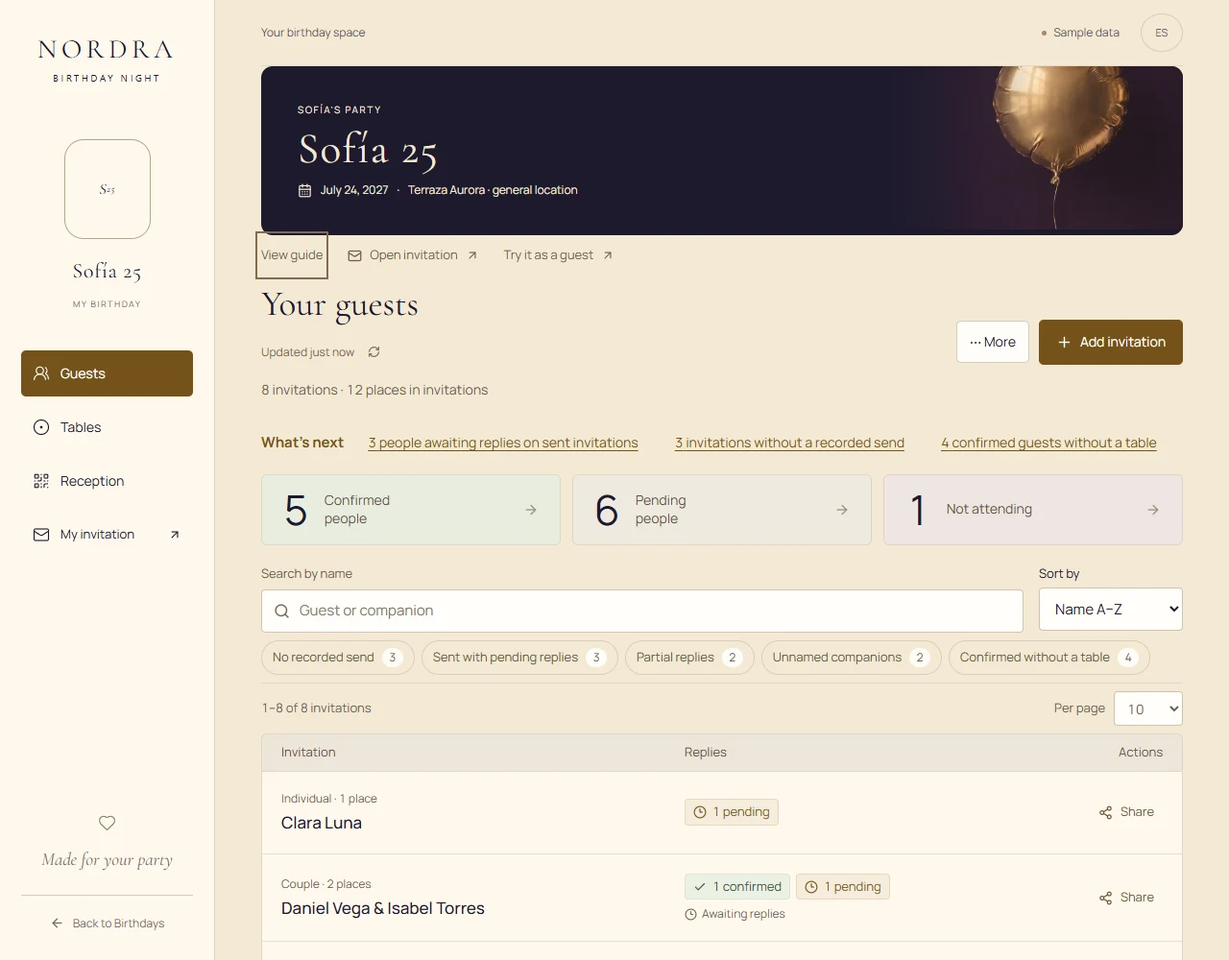
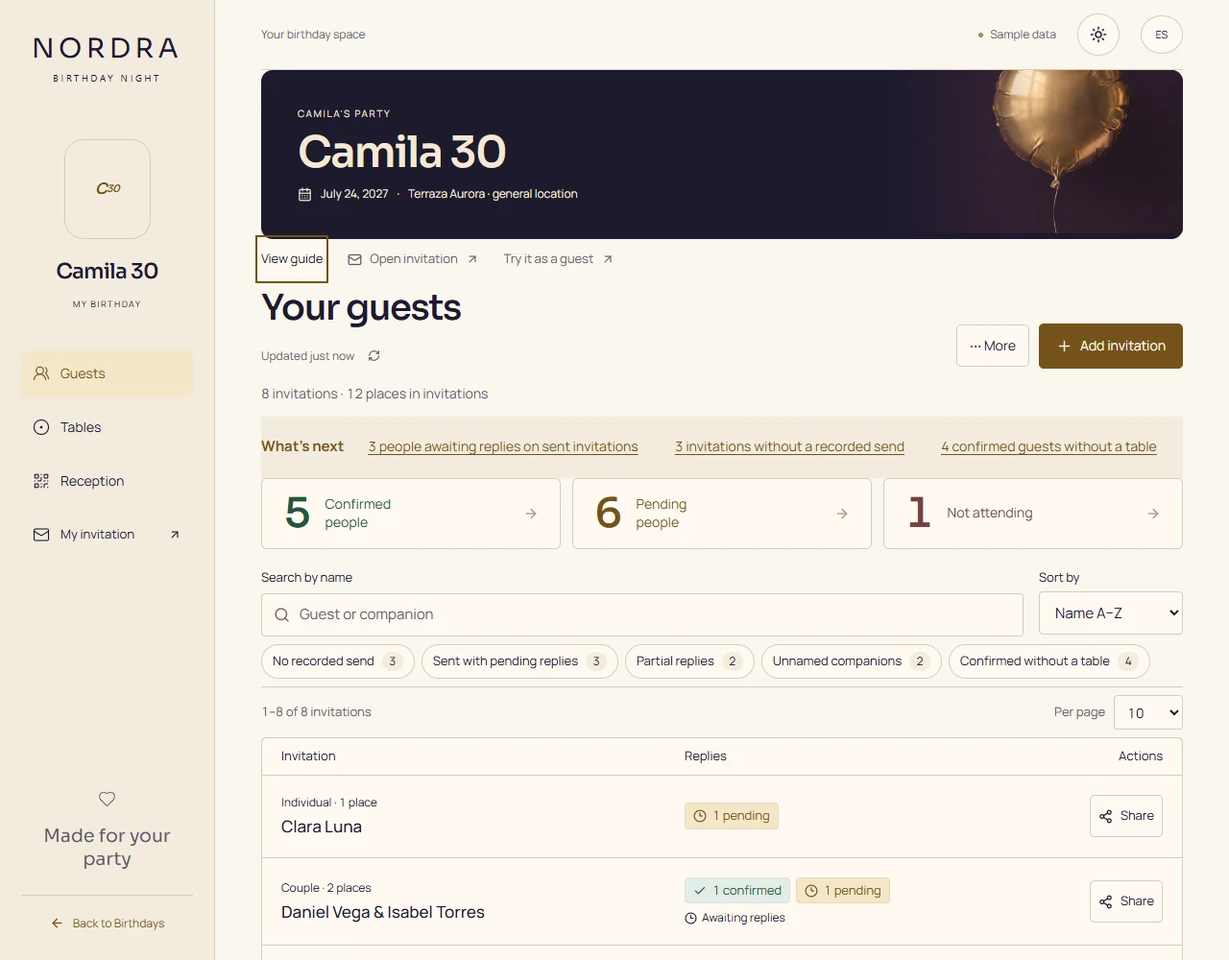
Estrena Camila 30 y conserva los enlaces personales de la muestra anterior

diff --git a/cumpleanos.html b/cumpleanos.html
@@ -20,17 +20,17 @@
 
 
 
-<section class="scene entry business invitations occasion-page theme-birthday" data-view="cumpleanos" aria-labelledby="cumpleanos-occasion-title"><nav class="mobile-route" aria-label="Accesos rápidos de esta página"><a href="#cumpleanos-event-experience">Muestra</a><a href="#cumpleanos-planes-eventos">Planes</a>{{mobile:whatsapp}}</nav><nav class="occasion-path" aria-label="Tipo de invitación"><a href="/invitaciones" data-go="invitaciones">Invitaciones</a><a href="/bodas" data-go="bodas">Bodas</a><a href="/cumpleanos" data-go="cumpleanos" aria-current="page">Cumpleaños</a><a href="/eventos" data-go="eventos">Eventos</a><a href="/temporada" data-go="temporada">Temporada</a></nav><div class="occasion-hero birthday-hero"><div class="occasion-kicker"><p class="eyebrow">CUMPLEAÑOS, POR NORDRA</p><button class="business-motion-control" type="button" data-business-toggle aria-pressed="false">Pausar movimiento</button></div><h1 id="cumpleanos-occasion-title"><span class="business-title-line">Hay mucho</span> <span class="business-title-line">que celebrar</span></h1><div class="occasion-hero-live showcase-live"><div class="live-phone nordra-phone"><div class="live-screen"><img src="/artwork/birthday-noche/sofia-portada-780.webp" srcset="/artwork/birthday-noche/sofia-portada-390.webp 390w, /artwork/birthday-noche/sofia-portada-780.webp 780w" sizes="(max-width:700px) 180px, 265px" width="780" height="1688" alt="Portada de Sofía 25 con un globo de foil dorado" loading="eager" fetchpriority="high" decoding="async"></div></div><p class="live-actions"><a class="live-try" href="/invitaciones/sofia-25/" data-live-try="Invitación de Sofía 25">Pruébala aquí <span aria-hidden="true">↗</span></a><span class="live-note">Un diseño de Nordra</span></p></div><div class="occasion-lead"><p>De los cinco a los cincuenta, tus XV o tu aniversario: la invitación lleva tu estilo.</p><a class="horizon-button" href="#cumpleanos-event-experience">Encuentra tu estilo <span aria-hidden="true">↓</span></a><a class="options-compare" href="#cumpleanos-planes-eventos">Ver paquetes <span aria-hidden="true">↗</span></a></div></div><section class="home-continuation wedding-sample occasion-stage" id="cumpleanos-respuesta" aria-labelledby="cumpleanos-response-title">
+<section class="scene entry business invitations occasion-page theme-birthday" data-view="cumpleanos" aria-labelledby="cumpleanos-occasion-title"><nav class="mobile-route" aria-label="Accesos rápidos de esta página"><a href="#cumpleanos-event-experience">Muestra</a><a href="#cumpleanos-planes-eventos">Planes</a>{{mobile:whatsapp}}</nav><nav class="occasion-path" aria-label="Tipo de invitación"><a href="/invitaciones" data-go="invitaciones">Invitaciones</a><a href="/bodas" data-go="bodas">Bodas</a><a href="/cumpleanos" data-go="cumpleanos" aria-current="page">Cumpleaños</a><a href="/eventos" data-go="eventos">Eventos</a><a href="/temporada" data-go="temporada">Temporada</a></nav><div class="occasion-hero birthday-hero"><div class="occasion-kicker"><p class="eyebrow">CUMPLEAÑOS, POR NORDRA</p><button class="business-motion-control" type="button" data-business-toggle aria-pressed="false">Pausar movimiento</button></div><h1 id="cumpleanos-occasion-title"><span class="business-title-line">Hay mucho</span> <span class="business-title-line">que celebrar</span></h1><div class="occasion-hero-live showcase-live"><div class="live-phone nordra-phone"><div class="live-screen"><img src="/artwork/birthday-noche/camila-portada-780.webp" srcset="/artwork/birthday-noche/camila-portada-390.webp 390w, /artwork/birthday-noche/camila-portada-780.webp 780w" sizes="(max-width:700px) 180px, 265px" width="780" height="1688" alt="Portada de Camila 30 con un globo de foil dorado" loading="eager" fetchpriority="high" decoding="async"></div></div><p class="live-actions"><a class="live-try" href="/invitaciones/camila-30/" data-live-try="Invitación de Camila 30">Pruébala aquí <span aria-hidden="true">↗</span></a><span class="live-note">Un diseño de Nordra</span></p></div><div class="occasion-lead"><p>De los cinco a los cincuenta, tus XV o tu aniversario: la invitación lleva tu estilo.</p><a class="horizon-button" href="#cumpleanos-event-experience">Encuentra tu estilo <span aria-hidden="true">↓</span></a><a class="options-compare" href="#cumpleanos-planes-eventos">Ver paquetes <span aria-hidden="true">↗</span></a></div></div><section class="home-continuation wedding-sample occasion-stage" id="cumpleanos-respuesta" aria-labelledby="cumpleanos-response-title">
  <span class="occasion-anchor" id="cumpleanos-event-experience"></span><span class="occasion-anchor" id="event-experience"></span>
  <div class="wedding-direction"><h2 id="cumpleanos-response-title">Así llega cada respuesta</h2><p>Muestra interactiva · datos ficticios</p>
  <div class="wedding-switch" role="tablist" aria-label="Recorrido de la muestra" aria-orientation="vertical">
  <button type="button" role="tab" id="cumpleanos-tab-invitacion" aria-controls="cumpleanos-panel-muestra" aria-selected="true"><strong>Abre la invitación</strong><span>Consulta la fecha, el lugar y la agenda</span></button>
  <button type="button" role="tab" id="cumpleanos-tab-panel" aria-controls="cumpleanos-panel-muestra" aria-selected="false" tabindex="-1"><strong>Mira el panel</strong><span>Cada respuesta aparece en tu panel</span></button></div>
- <div class="wedding-links"><a href="/invitaciones/sofia-25/">Abrir la invitación completa ↗</a><a href="/panel-cumple.html">Probar el panel de muestra ↗</a></div></div>
+ <div class="wedding-links"><a href="/invitaciones/camila-30/">Abrir la invitación completa ↗</a><a href="/panel-cumple.html">Probar el panel de muestra ↗</a></div></div>
  <div class="wedding-stage" id="cumpleanos-panel-muestra" role="tabpanel" aria-labelledby="cumpleanos-tab-invitacion" data-step="cover">
- <div class="wedding-devices"><a class="wedding-dashboard" href="/panel-cumple.html" aria-label="Probar el panel de muestra"><img src="/artwork/birthday-dashboard-preview/dashboard-es-760.webp" srcset="/artwork/birthday-dashboard-preview/dashboard-es-760.webp 760w, /artwork/birthday-dashboard-preview/dashboard-es-1280.webp 1280w" sizes="(max-width:700px) 86vw, 55vw" alt="Panel de Sofía 25" loading="lazy"></a>
- <div class="wedding-phone"><img src="/artwork/birthday-noche/sofia-detalles-390.webp" srcset="/artwork/birthday-noche/sofia-detalles-390.webp 390w, /artwork/birthday-noche/sofia-detalles-780.webp 780w" sizes="(max-width:700px) 43vw, 318px" width="390" height="844" loading="lazy" alt="Fecha y agenda de Sofía 25"></div></div>
- <p class="wedding-credit">Sofía 25 · Un diseño de Nordra</p></div></section><section class="home-continuation occasion-plans" id="cumpleanos-planes-eventos"><span class="occasion-anchor" id="planes-eventos"></span>
+ <div class="wedding-devices"><a class="wedding-dashboard" href="/panel-cumple.html" aria-label="Probar el panel de muestra"><img src="/artwork/birthday-dashboard-preview/dashboard-es-760.webp" srcset="/artwork/birthday-dashboard-preview/dashboard-es-760.webp 760w, /artwork/birthday-dashboard-preview/dashboard-es-1280.webp 1280w" sizes="(max-width:700px) 86vw, 55vw" alt="Panel de Camila 30" loading="lazy"></a>
+ <div class="wedding-phone"><img src="/artwork/birthday-noche/camila-detalles-390.webp" srcset="/artwork/birthday-noche/camila-detalles-390.webp 390w, /artwork/birthday-noche/camila-detalles-780.webp 780w" sizes="(max-width:700px) 43vw, 318px" width="390" height="844" loading="lazy" alt="Fecha y agenda de Camila 30"></div></div>
+ <p class="wedding-credit">Camila 30 · Un diseño de Nordra</p></div></section><section class="home-continuation occasion-plans" id="cumpleanos-planes-eventos"><span class="occasion-anchor" id="planes-eventos"></span>
  <h2 id="cumpleanos-decision-title">Aurora y Boreal</h2><p>Precios de apertura y regulares en MXN, con IVA incluido. Pago único.</p>
  <div class="occasion-plan-grid">{{occasion:cumpleanos:plans}}</div><div class="occasion-extra"><details><summary>Servicios adicionales<span aria-hidden="true">+</span></summary><p>Lo que acordamos en tu paquete está incluido: tus fotos, enlaces a mapas, el formulario y el panel de invitados. Puedes compartir tu enlace manualmente por WhatsApp sin un cargo adicional de Nordra. Si quieres sumar mensajes automáticos, venta de entradas o alguna integración de pago, primero te explicamos los costos de configuración y las comisiones del proveedor. Tú decides si seguimos adelante antes de contratar o activar algo.</p></details></div></section><section class="home-continuation audience-faq" id="cumpleanos-preguntas" aria-labelledby="cumpleanos-faq-title"><div><h2 id="cumpleanos-faq-title">Preguntas frecuentes</h2></div><div class="faq-list">{{occasion:cumpleanos:faq}}</div></section><section class="home-continuation studio-process process-roadmap" id="cumpleanos-proceso-invitaciones" aria-labelledby="cumpleanos-invitation-process-title">
 

diff --git a/invitaciones/camila-30/index.html b/invitaciones/camila-30/index.html
@@ -1,16 +1,16 @@
 <!doctype html>
-<html lang="es" data-invitation="sofia" data-theme="light">
-<head><meta charset="utf-8"><meta name="viewport" content="width=device-width,initial-scale=1"><meta name="description" content="Sofía 25 · Un diseño de Nordra. Invitación de muestra"><title>Sofía 25 · Un diseño de Nordra</title><meta name="robots" content="noindex,follow"><script>try{document.documentElement.dataset.theme=localStorage.getItem('nordra-theme')==='dark'?'dark':'light'}catch{}</script><link rel="stylesheet" href="/src/celebrations/invitation.css"><link rel="stylesheet" href="/src/celebrations/sofia.css"><script type="module" src="/src/celebrations/invitation.js"></script></head>
+<html lang="es" data-invitation="camila" data-theme="light">
+<head><meta charset="utf-8"><meta name="viewport" content="width=device-width,initial-scale=1"><meta name="description" content="Camila 30 · Un diseño de Nordra. Invitación de muestra"><title>Camila 30 · Un diseño de Nordra</title><meta name="robots" content="noindex,follow"><script>try{document.documentElement.dataset.theme=localStorage.getItem('nordra-theme')==='dark'?'dark':'light'}catch{}</script><link rel="stylesheet" href="/src/celebrations/invitation.css"><link rel="stylesheet" href="/src/celebrations/camila.css"><script type="module" src="/src/celebrations/invitation.js"></script></head>
 <body class="birthday-invitation" data-phase="closed">
 <div class="celebration-entrance" role="dialog" aria-modal="true" aria-labelledby="cover-title" tabindex="-1"><div class="cover">
-<div class="cover-head"><p class="eyebrow">UNA NOCHE PARA CELEBRAR</p><span class="cover-monogram">S / 25</span></div>
-<div class="cover-copy"><h1 id="cover-title">Sofía<span class="age">25</span></h1><p class="cover-subtitle">Veinticinco vueltas al sol</p><p class="cover-message">Mi noche favorita empieza contigo</p></div>
+<div class="cover-head"><p class="eyebrow">UNA NOCHE PARA CELEBRAR</p><span class="cover-monogram">C / 30</span></div>
+<div class="cover-copy"><h1 id="cover-title">Camila<span class="age">30</span></h1><p class="cover-subtitle">Treinta vueltas al sol</p><p class="cover-message">Mi noche favorita empieza contigo</p></div>
 <div class="cover-art"><img src="/artwork/birthday-noche/solo-640.webp" srcset="/artwork/birthday-noche/solo-640.webp 640w, /artwork/birthday-noche/solo-1024.webp 1024w" sizes="(min-width:900px) 470px, 300px" width="1024" height="1024" alt="Globo de foil dorado sobre un fondo de medianoche"></div>
 <div class="cover-bottom"><div class="cover-date"><p>24 · 07 · 2027 · 19:00</p><p>Terraza Aurora</p></div><button class="primary" data-open type="button">Abrir invitación <span aria-hidden="true">↗</span></button><button class="text-button" data-skip type="button">Entrar sin animación</button><p class="signature">UN DISEÑO DE NORDRA</p></div></div></div>
-<header class="celebration-header" hidden inert><button data-cover type="button" aria-label="Volver a la portada">Sofía 25</button><nav aria-label="Invitación"><a href="#detalles">El día</a><a href="#agenda">Agenda</a><a href="#confirmacion">Confirmar ↗</a></nav></header>
+<header class="celebration-header" hidden inert><button data-cover type="button" aria-label="Volver a la portada">Camila 30</button><nav aria-label="Invitación"><a href="#detalles">El día</a><a href="#agenda">Agenda</a><a href="#confirmacion">Confirmar ↗</a></nav></header>
 <main class="celebration-content" hidden inert>
 <section id="bienvenida" class="welcome" tabindex="-1"><div><p class="eyebrow">CON MIS PERSONAS FAVORITAS</p><h2>Lo mejor es celebrarlo contigo</h2></div><img src="/artwork/birthday-noche/solo-640.webp" srcset="/artwork/birthday-noche/solo-640.webp 640w, /artwork/birthday-noche/solo-1024.webp 1024w" sizes="(min-width:900px) 470px, 300px" width="1024" height="1024" alt="Globo de foil dorado sobre un fondo de medianoche"></section>
-<div class="content-grid"><div><section class="details" id="detalles" tabindex="-1"><p class="eyebrow">GUARDA ESTE DÍA</p><div class="date-display"><strong>24 JUL</strong><time datetime="2027-07-24T19:00:00-06:00">2027<br>19:00 h</time></div><h3>Terraza Aurora</h3><p>Ubicación general · sin dirección publicada</p><a class="calendar" href="/invitaciones/sofia-25/fecha.ics" download>Agregar al calendario <span aria-hidden="true">↗</span></a></section>
+<div class="content-grid"><div><section class="details" id="detalles" tabindex="-1"><p class="eyebrow">GUARDA ESTE DÍA</p><div class="date-display"><strong>24 JUL</strong><time datetime="2027-07-24T19:00:00-06:00">2027<br>19:00 h</time></div><h3>Terraza Aurora</h3><p>Ubicación general · sin dirección publicada</p><a class="calendar" href="/invitaciones/camila-30/fecha.ics" download>Agregar al calendario <span aria-hidden="true">↗</span></a></section>
 <section class="agenda" id="agenda" tabindex="-1"><p class="eyebrow">ASÍ LO CELEBRAMOS</p><h2>Nuestra noche</h2><ul><li>Bienvenida</li><li>Brindis</li><li>A celebrar</li></ul></section>
 <section class="dress" id="vestimenta" tabindex="-1"><p class="eyebrow">VESTIMENTA</p><h2>Un toque de brillo</h2></section></div>
 <section class="confirmation" id="confirmacion" tabindex="-1"><p class="eyebrow">UN LUGAR PARA TI</p><h2>¿Me acompañas?</h2><p class="sample-notice">Las respuestas de esta vista no se envían</p><form class="celebration-rsvp"><label for="guest">Tu nombre</label><input id="guest" name="guest" type="text" placeholder="Escribe tu nombre" required maxlength="80" autocomplete="off"><fieldset><legend>Tu respuesta</legend><div class="attendance-options"><label><input type="radio" name="attendance" value="yes" required>Sí, ahí estaré</label><label><input type="radio" name="attendance" value="no" required>Esta vez no</label></div></fieldset><button class="primary" type="submit">Probar confirmación <span aria-hidden="true">↗</span></button><p class="local-note">Datos ficticios · Esta prueba no envía ni guarda tus datos</p><p data-rsvp-status role="status" tabindex="-1"></p></form></section></div>

diff --git a/src/lib/occasionPanels.ts b/src/lib/occasionPanels.ts
@@ -6,21 +6,21 @@ function greeting(invitation:WeddingInvitation, en:boolean) {
   return (en?'Hi':'Hola')+(names.length?', '+new Intl.ListFormat(en?'en':'es-MX').format(names):'')+'. ';
 }
 export const birthdayPanel:typeof base = {
-  ...base,key:'birthday',accent:'#74531b',ink:'#1d1a2e',paper:'#fff9ed',
+  ...base,key:'birthday',accent:'var(--gold)',ink:'var(--text)',paper:'var(--surface)',
   sample:{path:'/panel-cumple.html',date:['24 de julio de 2027','July 24, 2027']},
   identity:{
-    name:'Sofía 25',title:['Sofía 25'],mark:['S','25'],back:'/cumpleanos',anchor:'cumpleanos-panel-muestra',
-    invitation:'/invitaciones/sofia-25/',download:'cumpleanos',photo:'/artwork/birthday-noche/solo-640.webp',srcSet:'/artwork/birthday-noche/solo-640.webp 640w, /artwork/birthday-noche/solo-1024.webp 1024w',
+    name:'Camila 30',title:['Camila 30'],mark:['C','30'],back:'/cumpleanos',anchor:'cumpleanos-panel-muestra',
+    invitation:'/invitaciones/camila-30/',download:'cumpleanos',photo:'/artwork/birthday-noche/solo-640.webp',srcSet:'/artwork/birthday-noche/solo-640.webp 640w, /artwork/birthday-noche/solo-1024.webp 1024w',
     place:['Terraza Aurora · ubicación general','Terraza Aurora · general location'],brand:['NOCHE DE CUMPLE','BIRTHDAY NIGHT'],brandLabel:['Cumpleaños','Birthdays'],
     badge:['MI CUMPLEAÑOS','MY BIRTHDAY'],panel:['Panel de cumpleaños','Birthday dashboard'],space:['Tu espacio de cumpleaños','Your birthday space'],
-    backLabel:['Volver a Cumpleaños','Back to Birthdays'],kicker:['LA FIESTA DE SOFÍA','SOFÍA’S PARTY'],note:['Reúne a tus personas favoritas.','Bring your favorite people together.'],
+    backLabel:['Volver a Cumpleaños','Back to Birthdays'],kicker:['LA FIESTA DE CAMILA','CAMILA’S PARTY'],note:['Reúne a tus personas favoritas.','Bring your favorite people together.'],
     motto:['Hecho para tu fiesta','Made for your party'],guests:['Tus invitados','Your guests'],nav:['Invitados','Guests'],ours:['Mi invitación','My invitation'],
     footer:['Muestra Boreal · Mesas y entradas a tu fiesta','Boreal sample · Seating and party check-in'],
     history:'Recupera invitaciones durante la vigencia de esta muestra. Después, vuelve a asignar sus mesas.',
     remove:'Su enlace quedará inactivo. Puedes recuperar la invitación desde Historial durante la vigencia del cumpleaños.',
   },
   guide:{...base.guide,steps:[
-    {...base.guide.steps[0],detail:['Abre la invitación personal de Sofía 25 en otra pestaña.','Open a personal Sofía 25 invitation in another tab.']},
+    {...base.guide.steps[0],detail:['Abre la invitación personal de Camila 30 en otra pestaña.','Open a personal Camila 30 invitation in another tab.']},
     base.guide.steps[1],{...base.guide.steps[2],detail:['Vuelve a Tus invitados para ver quién viene a la fiesta.','Return to Your guests to see who is coming to the party.']},
   ]},
   reminder(inv,en){return greeting(inv,en)+(en?"I’d love to know if you can come to my birthday party. Here’s your invitation:":inv.kind==='individual'?'Me encantaría saber si podrás venir a mi cumple. Aquí está tu invitación:':'Me encantaría saber si podrán venir a mi cumple. Aquí está su invitación:')},

diff --git a/src/styles/birthday-panel.css b/src/styles/birthday-panel.css
@@ -23,6 +23,7 @@ html .wedding-workspace[data-occasion=birthday] {
   & :is(.workspace-topbar,.workspace-footer,.workspace-sidebar,.workspace-navigation,.ledger-row,.boreal-table-card,.ledger-stat,.ledger-list,.workspace-monogram,.workspace-language) {border-color:var(--line)}
   & :is(p,small,label,legend,summary,strong,span,h1,h2,h3,h4,button,a,select,input) {color:inherit}
   & :is(h1,h2,h3,h4,.workspace-monogram,.workspace-couple p,.boreal-summary strong,.boreal-table-center>span,.ledger-stat-value,.record-detail-name) {font-family:var(--occasion-title);font-weight:550;letter-spacing:-.035em}
+  & :is(.workspace-brand,.workspace-sidebar-bottom p,.wedding-paper-monogram,.wedding-reply-context,.seating-plan-grid>strong,.seating-plan-table>strong) {font-family:var(--occasion-title);font-style:normal}
   & :is(.ledger-stat-value,.boreal-summary strong,.boreal-table-center>span) {font-variant-numeric:lining-nums tabular-nums}
   & :is(.workspace-list-footer,.workspace-footer,.workspace-date,.workspace-topbar,.workspace-sync,.ledger-results,.ledger-columns,.boreal-summary span,.workspace-sidebar-bottom,.ledger-heading p,.ledger-list small) {color:var(--muted)}
   & :is(.workspace-sidebar nav a,.workspace-sidebar nav button,.workspace-brand,.workspace-couple p) {color:var(--text)}
@@ -50,6 +51,11 @@ html .wedding-workspace[data-occasion=birthday] {
   & .ledger-stat:not(.is-yes,.is-no) {color:var(--gold)}
   & .ledger-stat>span {color:inherit}
   & :is(.ledger-search,.boreal-filters) input::placeholder {color:var(--muted);opacity:1}
+  & :is(.wedding-sync-status,.boreal-filters label>span:first-child,.boreal-list-meta,.boreal-list-meta>label) {color:var(--muted)}
+  & :is(.panel-more>button,.panel-more>div:not([hidden]),.boreal-plan-entry>button,.seat-move>button) {background:var(--surface);color:var(--text);border-color:var(--line)}
+  & :is(.seating-plan-grid article,.seating-plan-table,.wedding-kind-picker label,.workspace-editor-cancel,.workspace-dialog-close,.seat-picker .seat-bulk button,.seating-plan-assign button) {background:var(--surface);border-color:var(--line);color:var(--text)}
+  & :is(.seating-plan-footnote,.seating-plan-unassigned p,.seating-plan-grid header p,.wedding-editor-person legend,.wedding-preview-note) {color:var(--muted)}
+  & .workspace-dialog .wedding-kind-picker label:has(input:checked) {color:var(--gold);background:var(--pending-bg);border-color:var(--gold)}
   & :focus-visible {outline-color:var(--gold)}
   & .birthday-theme-button {display:inline-grid;place-items:center;width:44px;height:44px;border:1px solid var(--line);border-radius:50%;padding:0}
 }

diff --git a/vite.config.ts b/vite.config.ts
@@ -17,7 +17,7 @@ import { siteStyles } from "./build/site-styles.mjs";
 
 export default defineConfig({
   css: { postcss: { plugins: [commercialTypeFloor()] } },
-  build: { rollupOptions: { output: { manualChunks: id => id.includes("/node_modules/three/") ? "three" : undefined }, input: { home: "index.html", englishHome: "en/index.html", privacy: "aviso-de-privacidad/index.html", ...Object.fromEntries(translatedPages.map(page=>['en-'+page,'en/'+page+'.html'])), management: "gestion.html", studio: "estudio.html", business: "negocios.html", invitations: "invitaciones.html", weddings: "bodas.html", weddingPanel: "panel-boda.html", birthdayPanel: "panel-cumple.html", eventPanel: "panel-evento.html", weddingClient: "mi-boda.html", weddingInvitation: "invitacion-boda.html", birthdayInvitation: "invitaciones/sofia-25/index.html", eventInvitation: "invitaciones/conexion-27/index.html", weddingIvory: "invitaciones/valentina-y-sebastian/index.html", weddingPass: "pase-boda.html", weddingReception: "recepcion-boda.html", birthdays: "cumpleanos.html", events: "eventos.html", seasonal: "temporada.html" } } },
+  build: { rollupOptions: { output: { manualChunks: id => id.includes("/node_modules/three/") ? "three" : undefined }, input: { home: "index.html", englishHome: "en/index.html", privacy: "aviso-de-privacidad/index.html", ...Object.fromEntries(translatedPages.map(page=>['en-'+page,'en/'+page+'.html'])), management: "gestion.html", studio: "estudio.html", business: "negocios.html", invitations: "invitaciones.html", weddings: "bodas.html", weddingPanel: "panel-boda.html", birthdayPanel: "panel-cumple.html", eventPanel: "panel-evento.html", weddingClient: "mi-boda.html", weddingInvitation: "invitacion-boda.html", birthdayInvitation: "invitaciones/camila-30/index.html", eventInvitation: "invitaciones/conexion-27/index.html", weddingIvory: "invitaciones/valentina-y-sebastian/index.html", weddingPass: "pase-boda.html", weddingReception: "recepcion-boda.html", birthdays: "cumpleanos.html", events: "eventos.html", seasonal: "temporada.html" } } },
   plugins: [
     loadLocaleTemplate(), commercialLocales(),
     { name: "nordra-home-client-highlights", transformIndexHtml: { order: "pre", handler: html => renderHomeClientHighlights(html) } },

diff --git a/src/sections/WeddingWorkspace.tsx b/src/sections/WeddingWorkspace.tsx
@@ -103,7 +103,7 @@ export function WeddingWorkspace({ wedding, adminView = false, experience: reque
     </aside>
 
     <div className="workspace-body">
-      <header className="workspace-topbar"><span>{identity.space[lang]}</span><div><span className="workspace-sample-label">{real ? (adminView ? "Administración de Nordra" : "Panel privado") : (english ? "Sample data" : "Datos de muestra")}</span>{!real && experience.key === 'birthday' && <BirthdayThemeButton english={english}/>} {real ? <>{adminView ? <a href="/?panel=pagos&seccion=bodas">Volver a bodas</a> : <><button type="button" onClick={onBack}>Mis bodas</button><button type="button" onClick={onSignOut}>Salir</button></>}</> : <button type="button" className="workspace-language" onClick={() => setLanguage(english ? "es" : "en")} aria-label={english ? "Cambiar a español" : "Switch to English"}>{english ? "ES" : "EN"}</button>}</div></header>
+      <header className="workspace-topbar"><span>{identity.space[lang]}</span><div><span className="workspace-sample-label">{real ? (adminView ? "Administración de Nordra" : "Panel privado") : (english ? "Sample data" : "Datos de muestra")}</span>{!real && experience.key === 'birthday' && <BirthdayThemeButton english={english}/>}{real ? <>{adminView ? <a href="/?panel=pagos&seccion=bodas">Volver a bodas</a> : <><button type="button" onClick={onBack}>Mis bodas</button><button type="button" onClick={onSignOut}>Salir</button></>}</> : <button type="button" className="workspace-language" onClick={() => setLanguage(english ? "es" : "en")} aria-label={english ? "Cambiar a español" : "Switch to English"}>{english ? "ES" : "EN"}</button>}</div></header>
       <main id="workspace-main" tabIndex={-1}>
         {compact && <div className="panel-compact-bar" aria-hidden="true"><strong>{couple}</strong><span>{dateLabel}</span></div>}
         <section ref={welcome} className={`workspace-welcome${!real ? " workspace-welcome-editorial" : ""}`} aria-labelledby="workspace-title">

diff --git a/invitaciones.html b/invitaciones.html
@@ -24,7 +24,7 @@
 <h2 id="inv-directory-title">¿Qué celebras?</h2>
 <div class="inv-occasions">
 <div><a href="/bodas" data-go="bodas">Bodas <span aria-hidden="true">↗</span></a><p>Una invitación con su historia.</p></div>
-<div class="inv-birthday-noche"><a href="/cumpleanos" data-go="cumpleanos">Cumpleaños <span aria-hidden="true">↗</span></a><a class="inv-sample" href="/invitaciones/sofia-25/">Ver Sofía 25 ↗</a><img class="inv-birthday-art" src="/artwork/birthday-noche/solo-400.webp" srcset="/artwork/birthday-noche/solo-400.webp 400w, /artwork/birthday-noche/solo-640.webp 640w" sizes="100px" width="100" height="100" loading="lazy" alt=""></div>
+<div class="inv-birthday-noche"><a href="/cumpleanos" data-go="cumpleanos">Cumpleaños <span aria-hidden="true">↗</span></a><a class="inv-sample" href="/invitaciones/camila-30/">Ver Camila 30 ↗</a><img class="inv-birthday-art" src="/artwork/birthday-noche/solo-400.webp" srcset="/artwork/birthday-noche/solo-400.webp 400w, /artwork/birthday-noche/solo-640.webp 640w" sizes="100px" width="100" height="100" loading="lazy" alt=""></div>
 <div><a href="/eventos" data-go="eventos">Eventos <span aria-hidden="true">↗</span></a><a class="inv-sample" href="/invitaciones/conexion-27/">Ver Conexión 27 ↗</a></div>
 <div><a href="/temporada" data-go="temporada">Temporada <span aria-hidden="true">↗</span></a><p>Posadas y fin de año.</p></div>
 </div></section>

diff --git a/src/data/invitationOccasions.ts b/src/data/invitationOccasions.ts
@@ -23,7 +23,7 @@ export function getOccasions(english: boolean) {
       title: english ? "The party starts with your invitation" : "La fiesta empieza con tu invitación",
       copy: english ? "Your colors, your photographs and your favorite people. Let's set the mood for your celebration." : "Tus colores, tus fotos y tus personas favoritas. Empecemos a darle ambiente a tu celebración.",
       mood: english ? "Colorful · playful · personal" : "Colorida · divertida · muy tú",
-      sampleName: "Sofía · 25", sampleDate: "24 · 07 · 2027", samplePlace: "Terraza Aurora", sampleTime: "19:00",
+      sampleName: "Camila · 30", sampleDate: "24 · 07 · 2027", samplePlace: "Terraza Aurora", sampleTime: "19:00",
       sampleLine: english ? "One more trip around the sun." : "Una vuelta más al sol.",
       features: english ? ["Your theme and photographs", "Time, place and dress code", "Replies in your private panel"] : ["Tu temática y fotografías", "Hora, lugar y vestimenta", "Respuestas en tu panel privado"],
       experienceTitle: english ? "A celebration with your personality" : "Una celebración con tu personalidad",

diff --git a/src/site/styles/birthday-noche.css b/src/site/styles/birthday-noche.css
@@ -3,8 +3,8 @@
 .theme-birthday{font-family:NocheManrope,Manrope,sans-serif}
 body[data-scene=cumpleanos] .scene.theme-birthday :is(h1,h2,h3){font-family:NocheSora,Sora,sans-serif;font-weight:550;letter-spacing:-.035em}
 .theme-birthday .birthday-hero .business-title-line:last-child{font-style:normal;color:var(--accent)}
-.theme-birthday .occasion-stage .wedding-dashboard::after{top:84.7%}
-html[lang=en] .theme-birthday .occasion-stage .wedding-dashboard::after{top:80.4%}
+.theme-birthday .occasion-stage .wedding-dashboard::after{top:85.1%}
+html[lang=en] .theme-birthday .occasion-stage .wedding-dashboard::after{top:80.8%}
 .theme-birthday .invite-card{background:var(--bg);border-color:var(--line)}
 .dark .theme-birthday .invite-card{background:#30263f}
 .theme-birthday .invite-featured{border-color:var(--accent)}

diff --git a/src/celebrations/camila.css b/src/celebrations/camila.css
@@ -1,7 +1,7 @@
 @import '../styles/noche-fonts.css';
 
-:root[data-invitation=sofia]{--bg:#f4e9d3;--ink:#1d1a2e;--accent:#74531b;--title:NocheSora,Sora,sans-serif;font-family:NocheManrope,sans-serif}
-:root[data-invitation=sofia][data-theme=dark]{--bg:#1d1a2e;--ink:#f4e9d3;--accent:#e6c98e}
+:root[data-invitation=camila]{--bg:#f4e9d3;--ink:#1d1a2e;--accent:#74531b;--title:NocheSora,Sora,sans-serif;font-family:NocheManrope,sans-serif}
+:root[data-invitation=camila][data-theme=dark]{--bg:#1d1a2e;--ink:#f4e9d3;--accent:#e6c98e}
 .birthday-invitation #cover-title,.birthday-invitation .celebration-header [data-cover]{letter-spacing:-.04em}
 .birthday-invitation .cover-copy .age{font-weight:450;font-style:normal}
 .birthday-invitation .cover-art img,.birthday-invitation .welcome img{border-radius:48% 48% 3px 3px}

diff --git a/server/sample-occasions.js b/server/sample-occasions.js
@@ -2,7 +2,7 @@
 export const sampleOccasions = {
   wedding: { path:'/invitaciones/valentina-y-sebastian/', name:'Valentina & Sebastián', date:'2027-06-19', location:'Ciudad de México' },
   birthday: {
-    path:'/invitaciones/sofia-25/', name:'Sofía 25', date:'2027-07-24', location:'Terraza Aurora',
+    path:'/invitaciones/camila-30/', name:'Camila 30', date:'2027-07-24', location:'Terraza Aurora',
     tables:['Confeti','Brindis','Estrellas'],
     guests:[['individual','Clara Luna','pending'],['couple','Daniel Vega','yes','Isabel Torres','pending'],['plusOne','Renata Sol','yes','','pending'],['individual','Mateo Díaz','no'],['couple','Sara Gil','yes','Ana Gil','yes'],['individual','Leo Cruz','pending'],['plusOne','Paula Luna','pending','','pending'],['individual','Eva Sol','yes']],
   },

diff --git a/server/wedding-links.test.js b/server/wedding-links.test.js
@@ -124,7 +124,7 @@ test('sample occasions are allowlisted, isolated by cookie, and reset to new per
     sessions.push({occasion,cookie,snapshot});
     assert.match(first.headers['Set-Cookie'],/Max-Age=86400/);
     const group=snapshot.invitations[0];
-    const slug={wedding:'valentina-y-sebastian',birthday:'sofia-25',event:'conexion-27'}[occasion];
+    const slug={wedding:'valentina-y-sebastian',birthday:'camila-30',event:'conexion-27'}[occasion];
     assert.equal(new URL(group.link).pathname,'/invitaciones/'+slug+'/');
     if(occasion==='wedding')continue;
     assert(snapshot.management.delivery[group.id].sentAt);
